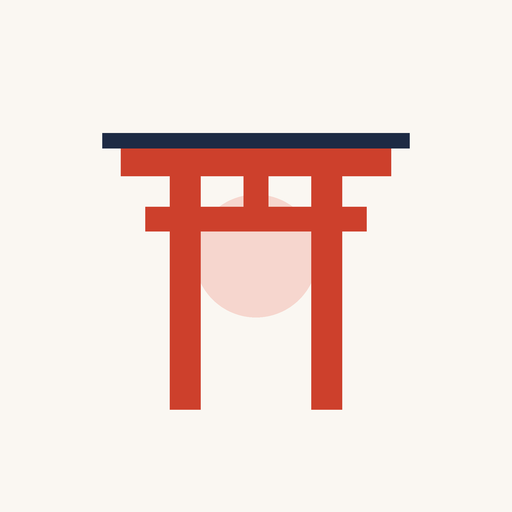
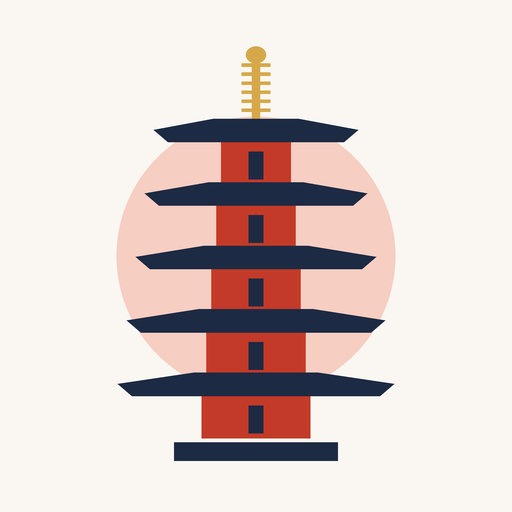
功能：App 名稱改為「日本自由行」並換成五重塔圖示
- manifest 名稱改為「日本自由行指南」、短名稱「日本自由行」，四頁 iOS 主畫面標題同步更新
- 主畫面圖示改為自行繪製的五重塔插圖（一般、maskable、Apple touch 各尺寸）
- README 說明舊版已安裝 App 如何更新名稱與圖示

Claude-Session: https://claude.ai/code/session_01UvDj6AdqoL38HxHehAZ6vz

Changed region(s): [[0.1875, 0.0938, 0.8125, 0.9062]]

diff --git a/nagoya.html b/nagoya.html
@@ -5,7 +5,7 @@
   <meta name="viewport" content="width=device-width, initial-scale=1">
   <meta name="theme-color" content="#1d2a44">
   <meta name="apple-mobile-web-app-capable" content="yes">
-  <meta name="apple-mobile-web-app-title" content="東京自由行">
+  <meta name="apple-mobile-web-app-title" content="日本自由行">
   <meta name="apple-mobile-web-app-status-bar-style" content="default">
   <meta name="description" content="名古屋自由行指南：五天名古屋與近郊路線、四季玩法、區域介紹、交通方式、名古屋美食與旅行提醒。">
   <title>名古屋自由行指南｜城下町與在地美食</title>

diff --git a/kyushu.html b/kyushu.html
@@ -5,7 +5,7 @@
   <meta name="viewport" content="width=device-width, initial-scale=1">
   <meta name="theme-color" content="#1d2a44">
   <meta name="apple-mobile-web-app-capable" content="yes">
-  <meta name="apple-mobile-web-app-title" content="東京自由行">
+  <meta name="apple-mobile-web-app-title" content="日本自由行">
   <meta name="apple-mobile-web-app-status-bar-style" content="default">
   <meta name="description" content="九州自由行指南：六天北九州路線、四季玩法、溫泉與區域介紹、新幹線與周遊券、必吃美食與旅行提醒。">
   <title>九州自由行指南｜溫泉與美食之旅</title>

diff --git a/hokkaido.html b/hokkaido.html
@@ -5,7 +5,7 @@
   <meta name="viewport" content="width=device-width, initial-scale=1">
   <meta name="theme-color" content="#1d2a44">
   <meta name="apple-mobile-web-app-capable" content="yes">
-  <meta name="apple-mobile-web-app-title" content="東京自由行">
+  <meta name="apple-mobile-web-app-title" content="日本自由行">
   <meta name="apple-mobile-web-app-status-bar-style" content="default">
   <meta name="description" content="北海道自由行指南：六天經典路線、四季玩法、區域介紹、交通與自駕、必吃美食與旅行提醒。">
   <title>北海道自由行指南｜四季都好玩</title>

diff --git a/index.html b/index.html
@@ -5,7 +5,7 @@
   <meta name="viewport" content="width=device-width, initial-scale=1">
   <meta name="theme-color" content="#1d2a44">
   <meta name="apple-mobile-web-app-capable" content="yes">
-  <meta name="apple-mobile-web-app-title" content="東京自由行">
+  <meta name="apple-mobile-web-app-title" content="日本自由行">
   <meta name="apple-mobile-web-app-status-bar-style" content="default">
   <meta name="description" content="東京自由行指南：五天行程範例、區域介紹、交通方式、預算試算與行前清單。">
   <title>東京自由行指南｜自己排的旅程</title>

diff --git a/README.md b/README.md
@@ -65,7 +65,8 @@
 
 ## PWA：安裝到主畫面與離線瀏覽
 
-- 使用 `manifest.webmanifest`、`sw.js`、`pwa.js` 與 `icons/`，支援 `/eva/` 子路徑。
+- 使用 `manifest.webmanifest`、`sw.js`、`pwa.js` 與 `icons/`，支援 `/eva/` 子路徑。安裝後的 App 名稱為「日本自由行」，圖示為五重塔插圖（自行繪製，無外部授權問題）。
+- 已安裝舊版（例如「報修登記」或「東京自由行」）的裝置不一定會自動更新名稱與圖示：Android 通常會在開啟 App 後的一段時間內自動更新；iPhone／iPad 需刪除主畫面上的舊圖示，再從 Safari「分享 → 加入主畫面」重新加入。
 - 以 HTTPS（正式網站）或 localhost（開發）開啟一次後，Service Worker 會快取整個介面；之後離線（例如在日本沒網路時）也能開啟並使用所有功能。`file://` 不支援。
 - Android Chrome／Edge 符合條件時會出現「安裝到主畫面」按鈕；iPhone／iPad 請用 Safari「分享 → 加入主畫面」。
 - 有新版本時顯示「更新指南」，不會自動重新載入。每次變更介面或快取清單都必須遞增 `sw.js` 的 `CACHE_NAME` 版本，並同步更新各頁 HTML 引用 CSS／JS 時的 `?v=` 參數，避免瀏覽器用到舊的快取樣式。
